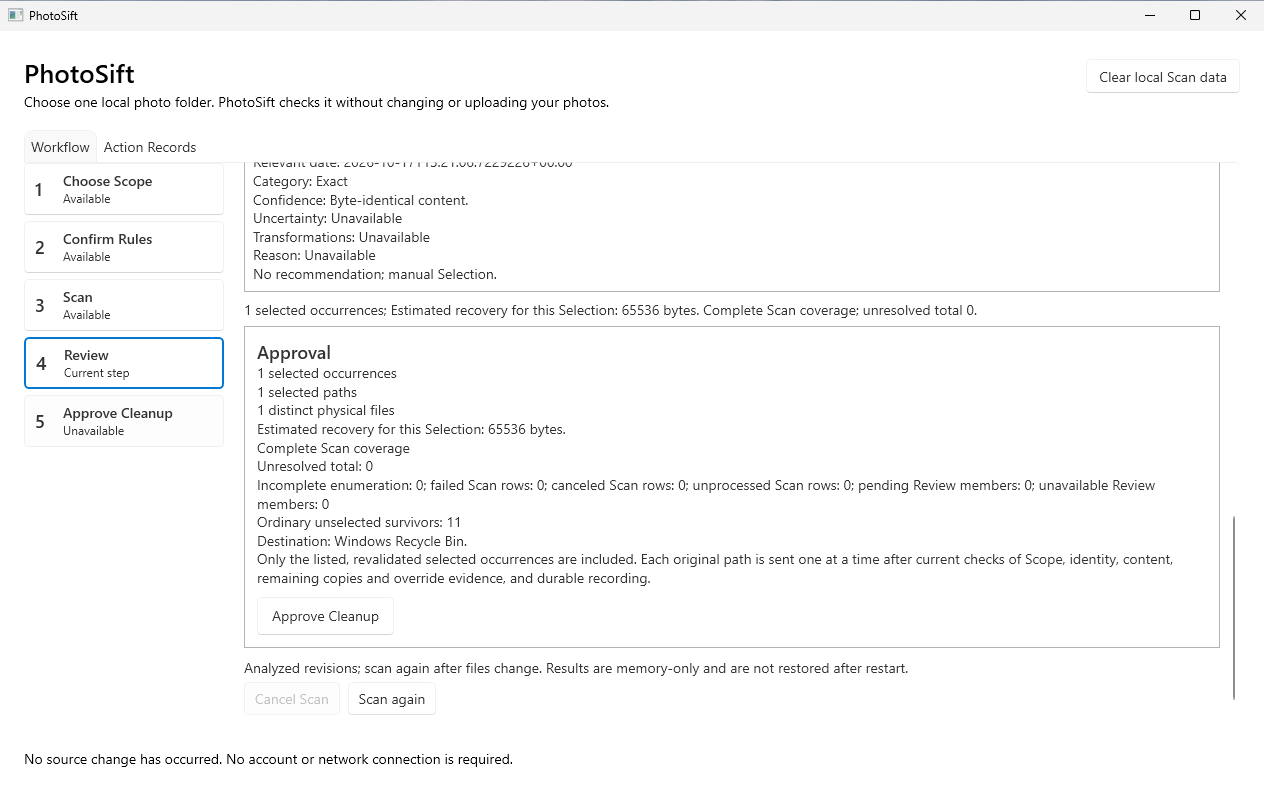
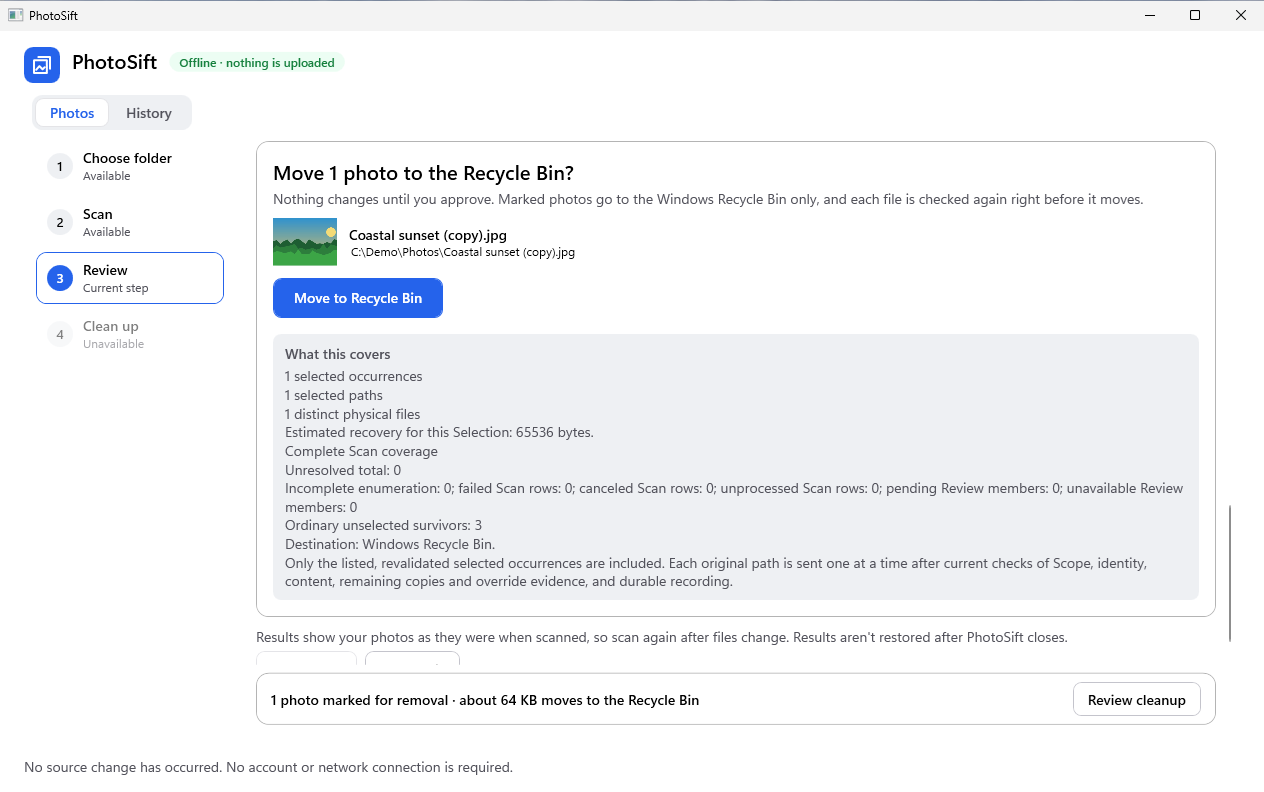
docs: show the redesigned UI in the README screenshots
Captured in the offline VM from develop e6b6a74 with demo photos,
Light theme, 100% scaling, 1280x800 window.

Claude-Session: https://claude.ai/code/session_01Y5CtdPxo1HjhWanXyaQLJA

diff --git a/README.md b/README.md
@@ -8,7 +8,7 @@
 
 **Find duplicate photos on Windows, review each group, and send only what you approve to the Recycle Bin.**
 
-![PhotoSift reviewing an exact duplicate group: categories, groups, the paths being compared and a preview of the photo](docs/images/hero-review-exact.png)
+![PhotoSift reviewing a set of identical copies: the kinds of duplicates found, the sets, and each photo with Keep or Remove, its path and size](docs/images/hero-review-exact.png)
 
 PhotoSift is a privacy-first desktop app for Windows 11 built with .NET 10, C# 14 and WPF. It scans one
 local folder for byte-identical and conservatively near-identical JPEG/PNG images, groups them for
@@ -17,8 +17,8 @@ never deletes permanently, and keeps a durable record of every action it takes.
 
 | 1. Choose a folder | 2. Approve exactly what goes | 3. See every outcome |
 |---|---|---|
-| ![Choose Scope screen before the PM-009 redesign, with a ready preflight summary](docs/images/choose-scope.png) | ![Approval listing the selected path, recovery estimate and Recycle Bin destination](docs/images/approve-cleanup.png) | ![Recycle Bin progress showing one original path recycled](docs/images/recycle-bin-progress.png) |
-| Preflight checks the folder is local and readable before any scan. | The approval lists every path, the estimated space recovered and the destination. | Each file is sent on its own and its result is recorded. |
+| ![Folder screen with a demo folder ready to scan and the scan options](docs/images/choose-folder.png) | ![Approval asking to move one photo to the Recycle Bin, with its path and what the cleanup covers](docs/images/approve-cleanup.png) | ![Cleanup finished with one photo moved to the Recycle Bin](docs/images/cleanup-results.png) |
+| Preflight checks the folder is local and readable, and the scan options sit on the same screen. | Nothing moves until you approve. The approval lists every photo and where it goes. | Each photo is sent on its own, and its result is kept in History. |
 
 ## Why it is interesting
 
